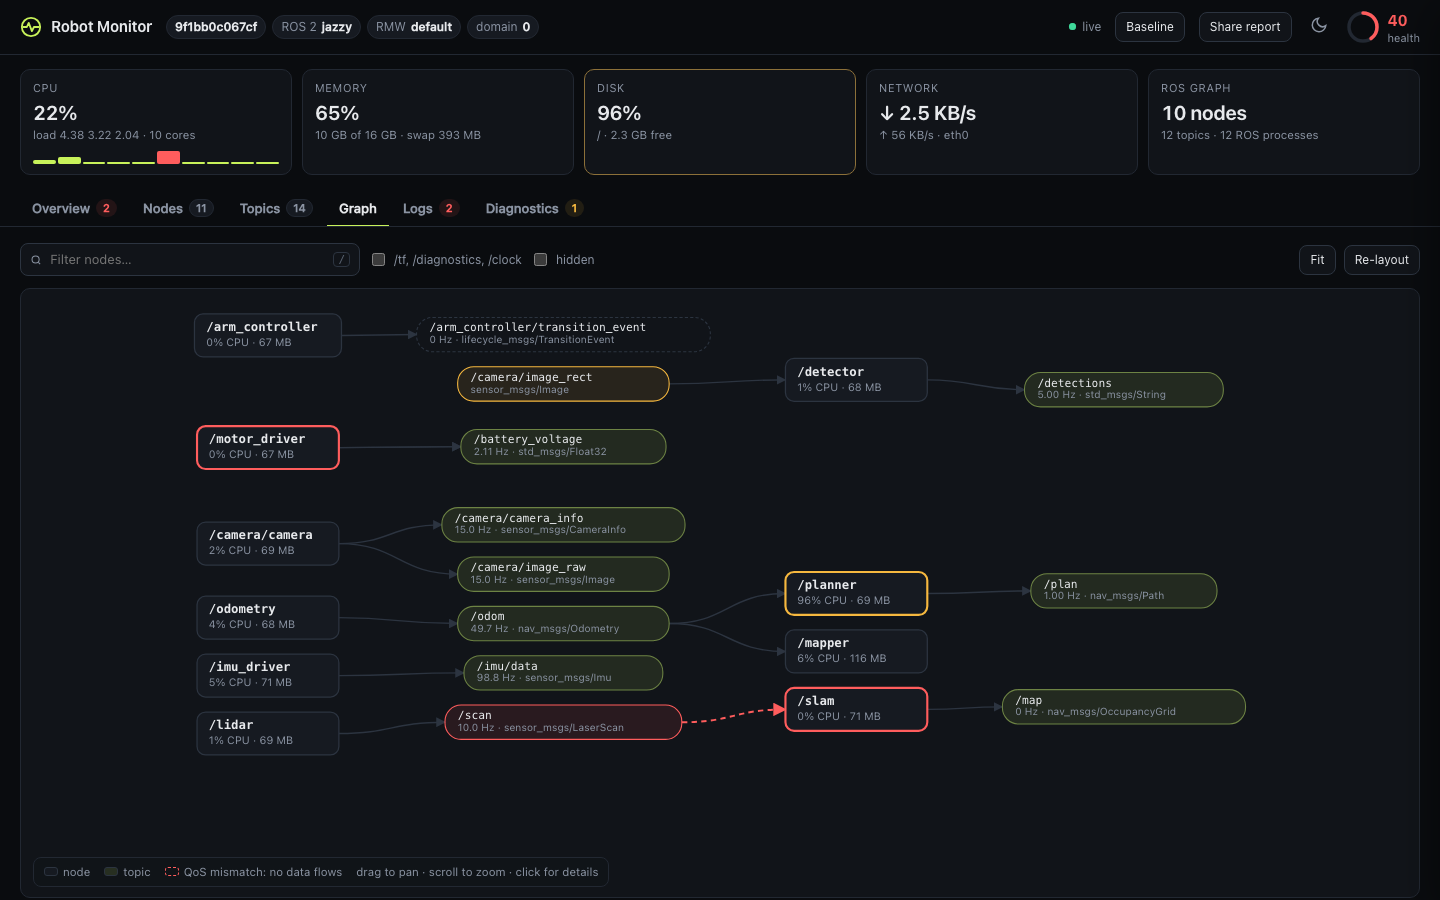
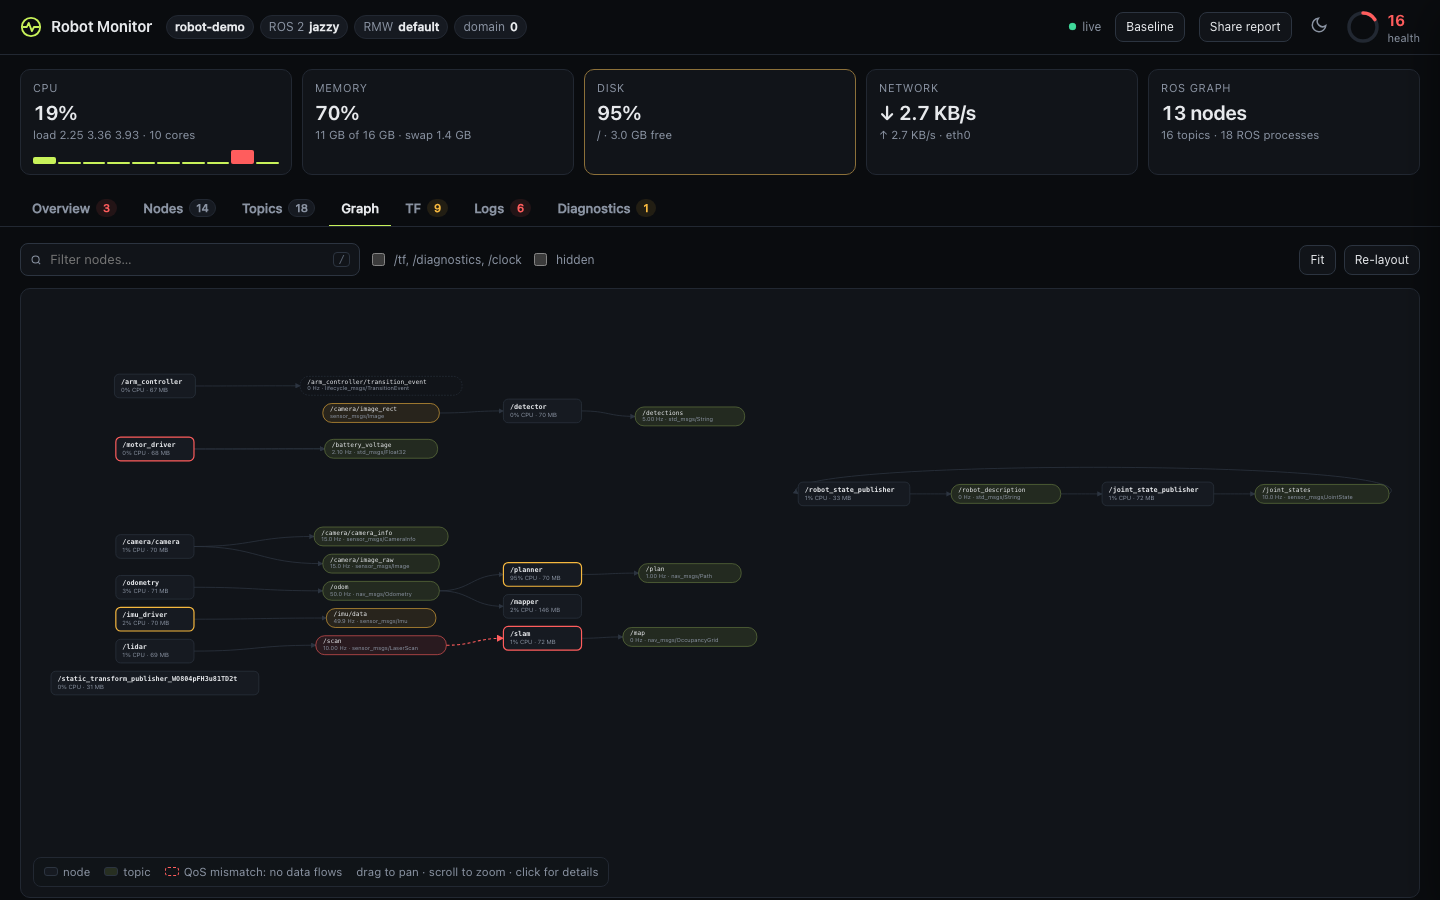
Fix feed topic statistics; cap the demo's memory leak; refresh GIF and screenshots
The /rosout and /diagnostics callbacks captured a loop variable that the TF setup reassigned, so their message counts went to /tf_static. Adds a regression test.

diff --git a/robot_monitor/test/test_integration.py b/robot_monitor/test/test_integration.py
@@ -59,6 +59,10 @@ def system(tmp_path_factory):
     sub_node = rclpy.create_node('itest_sub')
     sub_node.create_subscription(Imu, '/itest/imu', lambda m: None,
                                  QoSProfile(depth=5, reliability=ReliabilityPolicy.RELIABLE))
+    from diagnostic_msgs.msg import DiagnosticArray, DiagnosticStatus
+    diag_pub = sub_node.create_publisher(DiagnosticArray, '/diagnostics', 10)
+    sub_node.create_timer(0.1, lambda: diag_pub.publish(DiagnosticArray(status=[
+        DiagnosticStatus(level=DiagnosticStatus.WARN, name='itest/battery', message='low')])))
     ex, _ = spin_in_thread(mon)
     from rclpy.executors import SingleThreadedExecutor
     ex2 = SingleThreadedExecutor()
@@ -91,6 +95,15 @@ def test_rate_latency_and_qos(system):
     assert t['qos_issues'] and t['qos_issues'][0]['sub'] == '/itest_sub'
     assert any(i['id'].startswith('qos:/itest/imu') and i['severity'] == 'error'
                for i in mon.snapshot['issues'])
+
+
+def test_feed_topics_count_their_own_messages(system):
+    mon, _, _ = system
+    t = {x['name']: x for x in mon.snapshot['topics']}
+    assert t['/diagnostics']['stats']['hz'] > 3, t['/diagnostics']['stats']
+    assert 'itest/battery' in {d['name'] for d in mon.snapshot['diagnostics']}
+    if '/tf_static' in t and t['/tf_static'].get('stats'):
+        assert t['/tf_static']['stats']['hz'] == 0
 
 
 def test_node_mapped_to_child_process(system):

diff --git a/robot_monitor/robot_monitor/monitor.py b/robot_monitor/robot_monitor/monitor.py
@@ -197,14 +197,14 @@ class Monitor(Node):
             w.mode = 'feed'
             self.watched['/rosout'] = w
             self._feeds.append(self.create_subscription(
-                self._rosout_cls, '/rosout', lambda raw: self._on_rosout(raw, w),
+                self._rosout_cls, '/rosout', lambda raw, w=w: self._on_rosout(raw, w),
                 FEED_QOS, raw=True, event_callbacks=_no_events()))
         if self._diag_cls is not None:
             w = _Watched('/diagnostics', 'diagnostic_msgs/msg/DiagnosticArray')
             w.mode = 'feed'
             self.watched['/diagnostics'] = w
             self._feeds.append(self.create_subscription(
-                self._diag_cls, '/diagnostics', lambda raw: self._on_diag(raw, w),
+                self._diag_cls, '/diagnostics', lambda raw, w=w: self._on_diag(raw, w),
                 FEED_QOS, raw=True, event_callbacks=_no_events()))
         tf_cls = get_message('tf2_msgs/msg/TFMessage') if get_message else None
         if tf_cls is not None:

diff --git a/robot_monitor/robot_monitor/demo.py b/robot_monitor/robot_monitor/demo.py
@@ -179,20 +179,22 @@ class Planner(Node):
 
 
 class Mapper(Node):
-    """BUG: keeps every message it ever received (memory leak)."""
+    """BUG: keeps every message it ever received (memory leak, capped at ~270 MB)."""
 
     def __init__(self):
         super().__init__('mapper')
         from nav_msgs.msg import Odometry as Odom
-        self.keep = []
+        self.msgs, self.blobs = [], []
         self.create_subscription(Odom, '/odom', self.on_odom, 10)
         self.create_timer(1.0, self.grow)
 
     def on_odom(self, m):
-        self.keep.append(m)
+        if len(self.msgs) < 30000:   # the cap keeps a forgotten demo from hurting the machine
+            self.msgs.append(m)
 
     def grow(self):
-        self.keep.append(bytearray(600 * 1024))  # ~36 MB/min
+        if len(self.blobs) < 420:    # ~36 MB/min up to ~250 MB
+            self.blobs.append(bytearray(600 * 1024))
 
 
 class Imu(Node):
